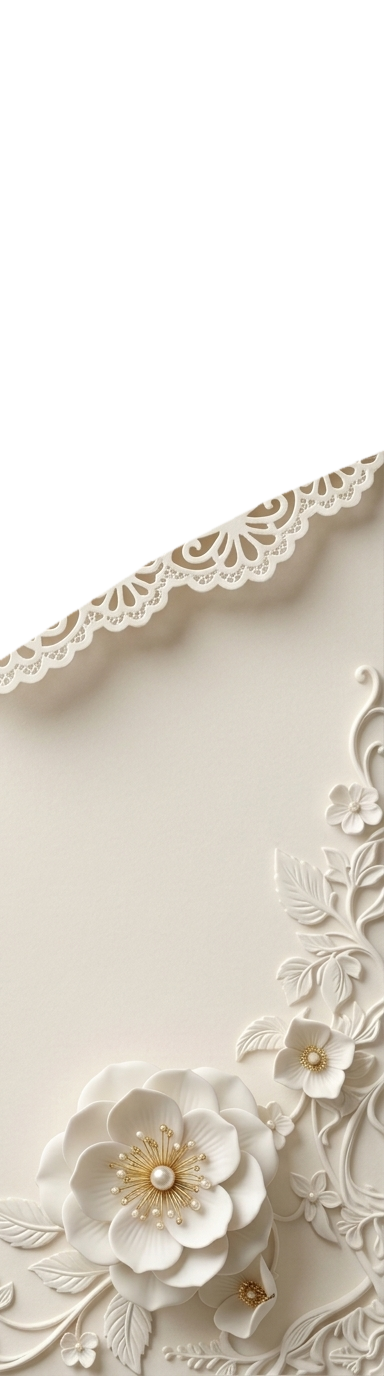
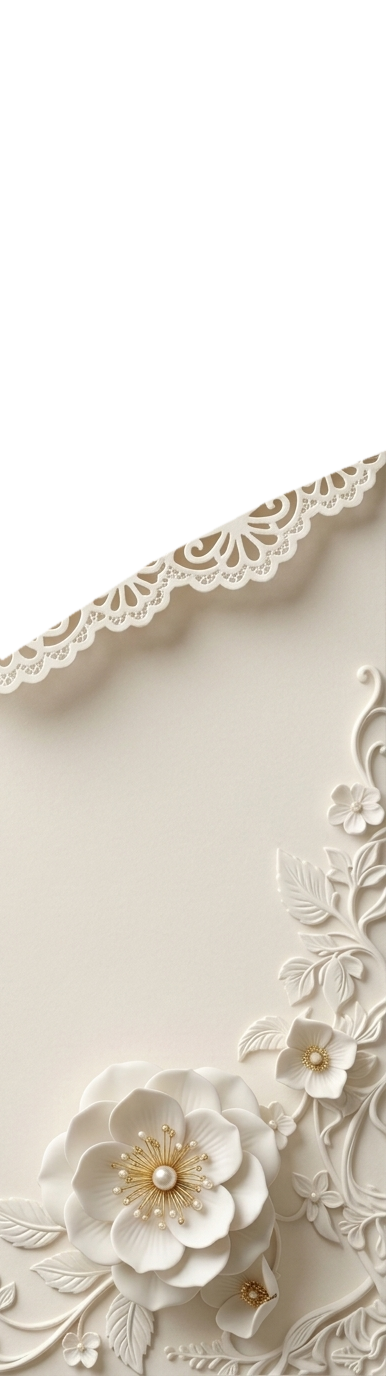
add

diff --git a/src/views/HomePage.vue b/src/views/HomePage.vue
@@ -11,13 +11,18 @@
         <div class="inner-glow"></div>
       </div>
 
-      <!-- 2. Lower Envelope Body / Split Gatefold Pocket Doors (Left & Right) -->
-      <div class="envelope-pocket-doors">
-        <div class="pocket-door pocket-door-left">
-          <img :src="pocketLeftImg" :alt="weddingText.accessibility.envelopePocketAlt + ' Left'" />
+      <!-- 2. Lower Envelope Body / Seamless Pocket Base & 3D Split Gatefold Doors -->
+      <div class="envelope-pocket-wrapper">
+        <div class="envelope-pocket-base" :class="{ 'is-hidden': isOpen || isReturning }">
+          <img :src="pocketImg" :alt="weddingText.accessibility.envelopePocketAlt" />
         </div>
-        <div class="pocket-door pocket-door-right">
-          <img :src="pocketRightImg" :alt="weddingText.accessibility.envelopePocketAlt + ' Right'" />
+        <div class="envelope-pocket-doors">
+          <div class="pocket-door pocket-door-left">
+            <img :src="pocketLeftImg" :alt="weddingText.accessibility.envelopePocketAlt + ' Left'" />
+          </div>
+          <div class="pocket-door pocket-door-right">
+            <img :src="pocketRightImg" :alt="weddingText.accessibility.envelopePocketAlt + ' Right'" />
+          </div>
         </div>
       </div>
 
@@ -108,15 +113,18 @@ import { ref } from 'vue'
 import { weddingText } from '@/data/weddingText.js'
 import goldSealCoverImg from '@/assets/envelope/gold-seal-transparent.png'
 import flapImg from '@/assets/envelope/envelope-flap.png'
+import pocketImg from '@/assets/envelope/envelope-pocket.png'
 import pocketLeftImg from '@/assets/envelope/envelope-pocket-left.png'
 import pocketRightImg from '@/assets/envelope/envelope-pocket-right.png'
 import './HomePage.css'
 
 const isCoverOpen = ref(false)
 const isOpen = ref(false)
+const isReturning = ref(false)
 const isDisappearingOther = ref(false)
 const isAnimatingCover = ref(false)
 let currentGlideAnim = null
+let returnTimer = null
 
 const envelopeSealRef = ref(null)
 const coverSealBoxRef = ref(null)
@@ -124,6 +132,8 @@ const coverSealImgRef = ref(null)
 
 const openCover = async () => {
   if (isCoverOpen.value || isAnimatingCover.value) return
+  isReturning.value = false
+  clearTimeout(returnTimer)
   isAnimatingCover.value = true
 
   const coverSealEl = coverSealBoxRef.value
@@ -212,13 +222,31 @@ const returnToCover = () => {
     } catch (e) {}
     currentGlideAnim = null
   }
+  isReturning.value = true
   isCoverOpen.value = false
   isOpen.value = false
   isDisappearingOther.value = false
   isAnimatingCover.value = false
+
+  clearTimeout(returnTimer)
+  returnTimer = setTimeout(() => {
+    isReturning.value = false
+  }, 3500)
 }
 
 const toggleEnvelope = () => {
-  isOpen.value = !isOpen.value
+  if (isOpen.value) {
+    // Closing / returning back: keep envelope-pocket.png hidden during return animation
+    isReturning.value = true
+    isOpen.value = false
+    clearTimeout(returnTimer)
+    returnTimer = setTimeout(() => {
+      isReturning.value = false
+    }, 3500)
+  } else {
+    isReturning.value = false
+    clearTimeout(returnTimer)
+    isOpen.value = true
+  }
 }
 </script>

diff --git a/src/views/HomePage.css b/src/views/HomePage.css
@@ -62,7 +62,47 @@
   z-index: 2;
 }
 
-/* 2. Lower Envelope Body / Split Gatefold Pocket Doors */
+/* 2. Lower Envelope Body / Seamless Base & Split Gatefold Pocket Doors */
+.envelope-pocket-wrapper {
+  position: absolute;
+  inset: 0;
+  pointer-events: none;
+  transform-style: preserve-3d;
+  -webkit-transform-style: preserve-3d;
+}
+
+/* 2a. Intact Seamless Pocket Base (Eliminates all seams/cracks on all devices when closed) */
+.envelope-pocket-base {
+  position: absolute;
+  inset: 0;
+  z-index: 6;
+  pointer-events: none;
+  border-bottom-left-radius: 20px;
+  border-bottom-right-radius: 20px;
+  overflow: hidden;
+  transform: translateZ(11px);
+  -webkit-transform: translateZ(11px);
+  opacity: 1;
+  visibility: visible;
+  transition: opacity 0.4s ease 3.5s, visibility 0s 3.5s;
+}
+
+.envelope-pocket-base img {
+  width: 100%;
+  height: 100%;
+  object-fit: cover;
+  display: block;
+}
+
+.envelope-pocket-base.is-hidden,
+.envelope-scene.is-open .envelope-pocket-base {
+  opacity: 0;
+  visibility: hidden;
+  pointer-events: none;
+  transition: opacity 0.35s ease, visibility 0s 0.35s;
+}
+
+/* 2b. Split Gatefold Pocket Doors */
 .envelope-pocket-doors {
   position: absolute;
   inset: 0;
@@ -76,7 +116,7 @@
   position: absolute;
   top: 0;
   bottom: 0;
-  width: 50%;
+  width: calc(50% + 2px);
   height: 100%;
   overflow: hidden;
   transform-style: preserve-3d;
@@ -623,6 +663,8 @@
     border-top-left-radius: 0;
     border-top-right-radius: 0;
   }
+  .envelope-pocket-wrapper,
+  .envelope-pocket-base,
   .envelope-pocket-doors,
   .pocket-door-left,
   .pocket-door-right {
